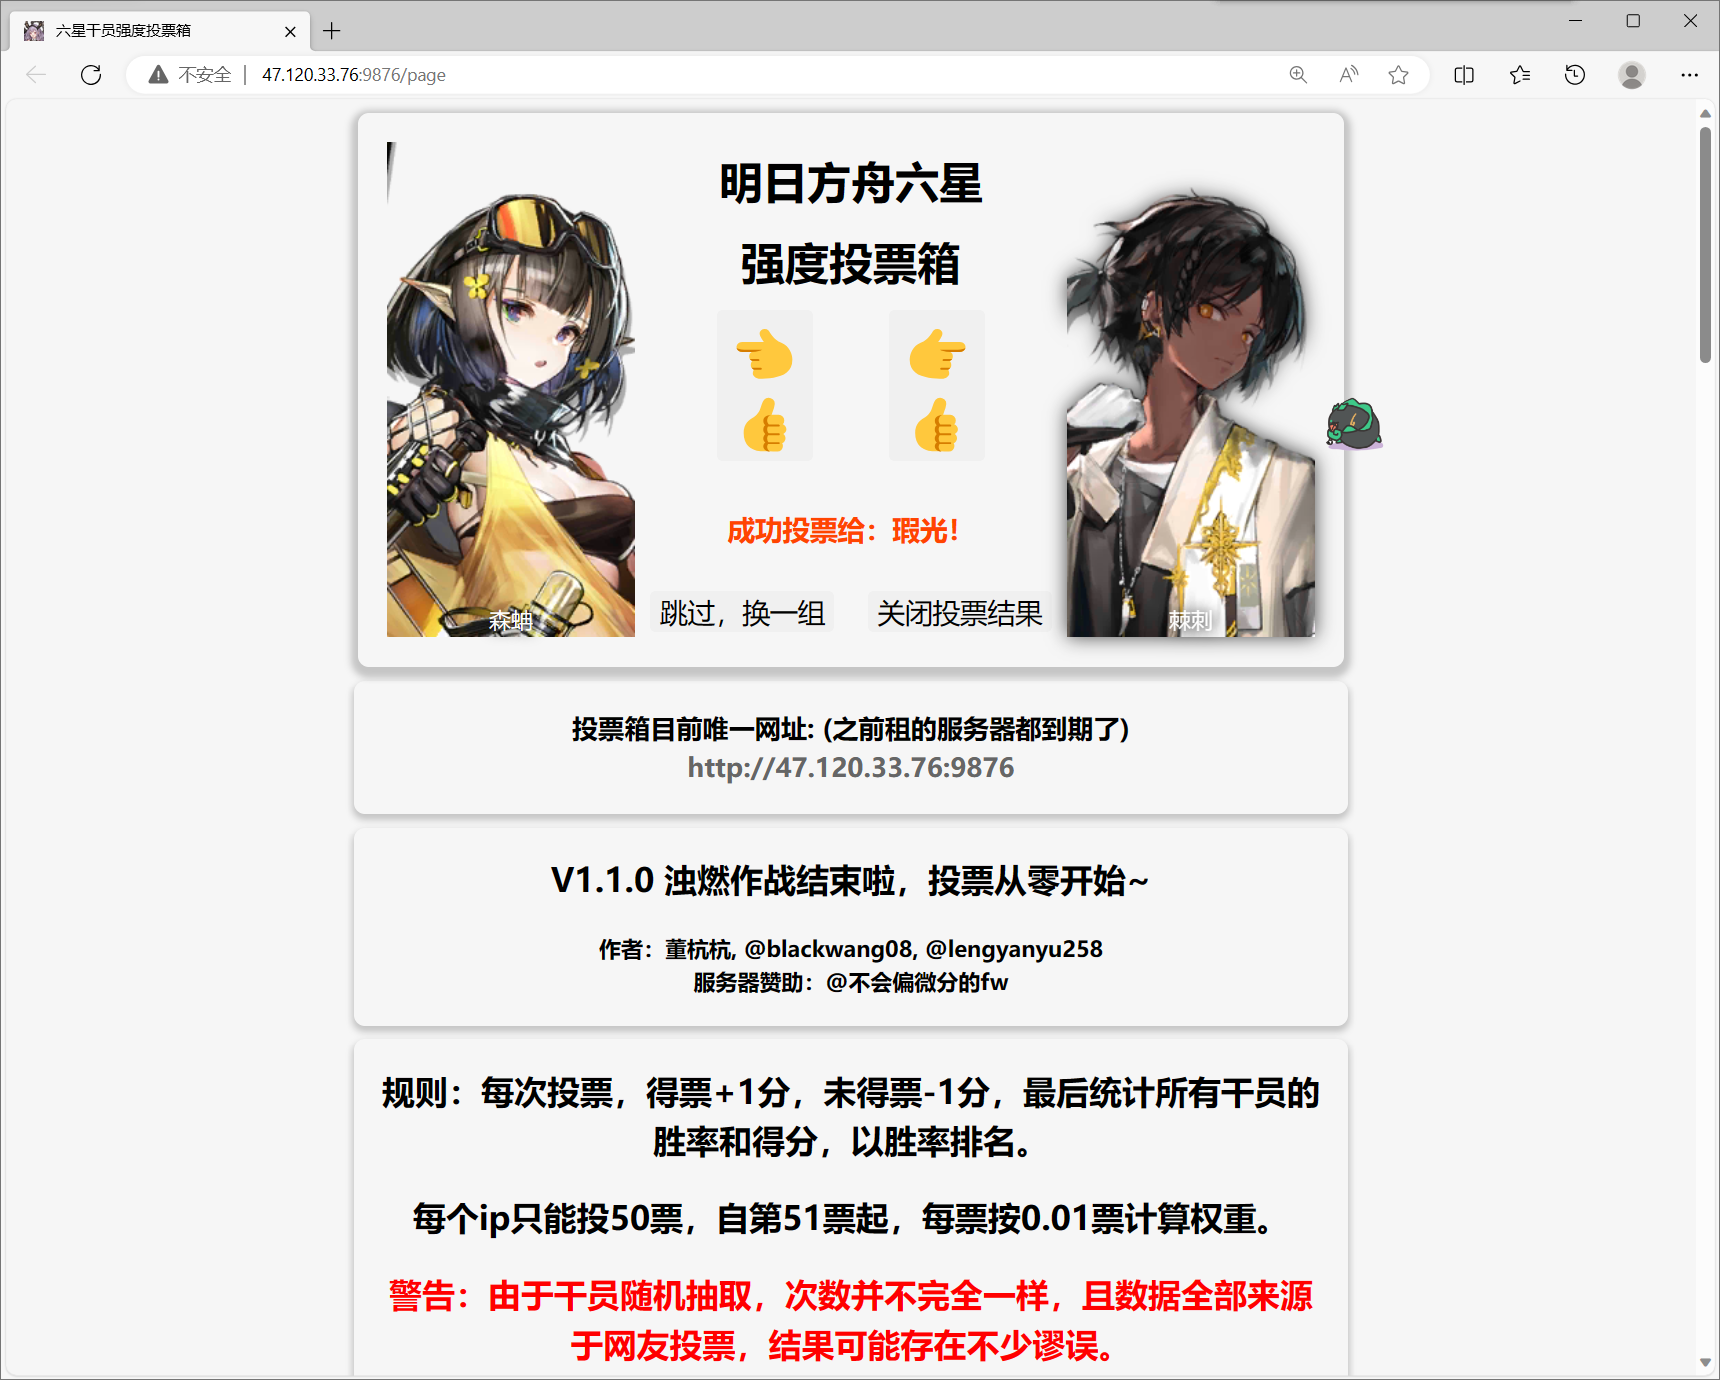
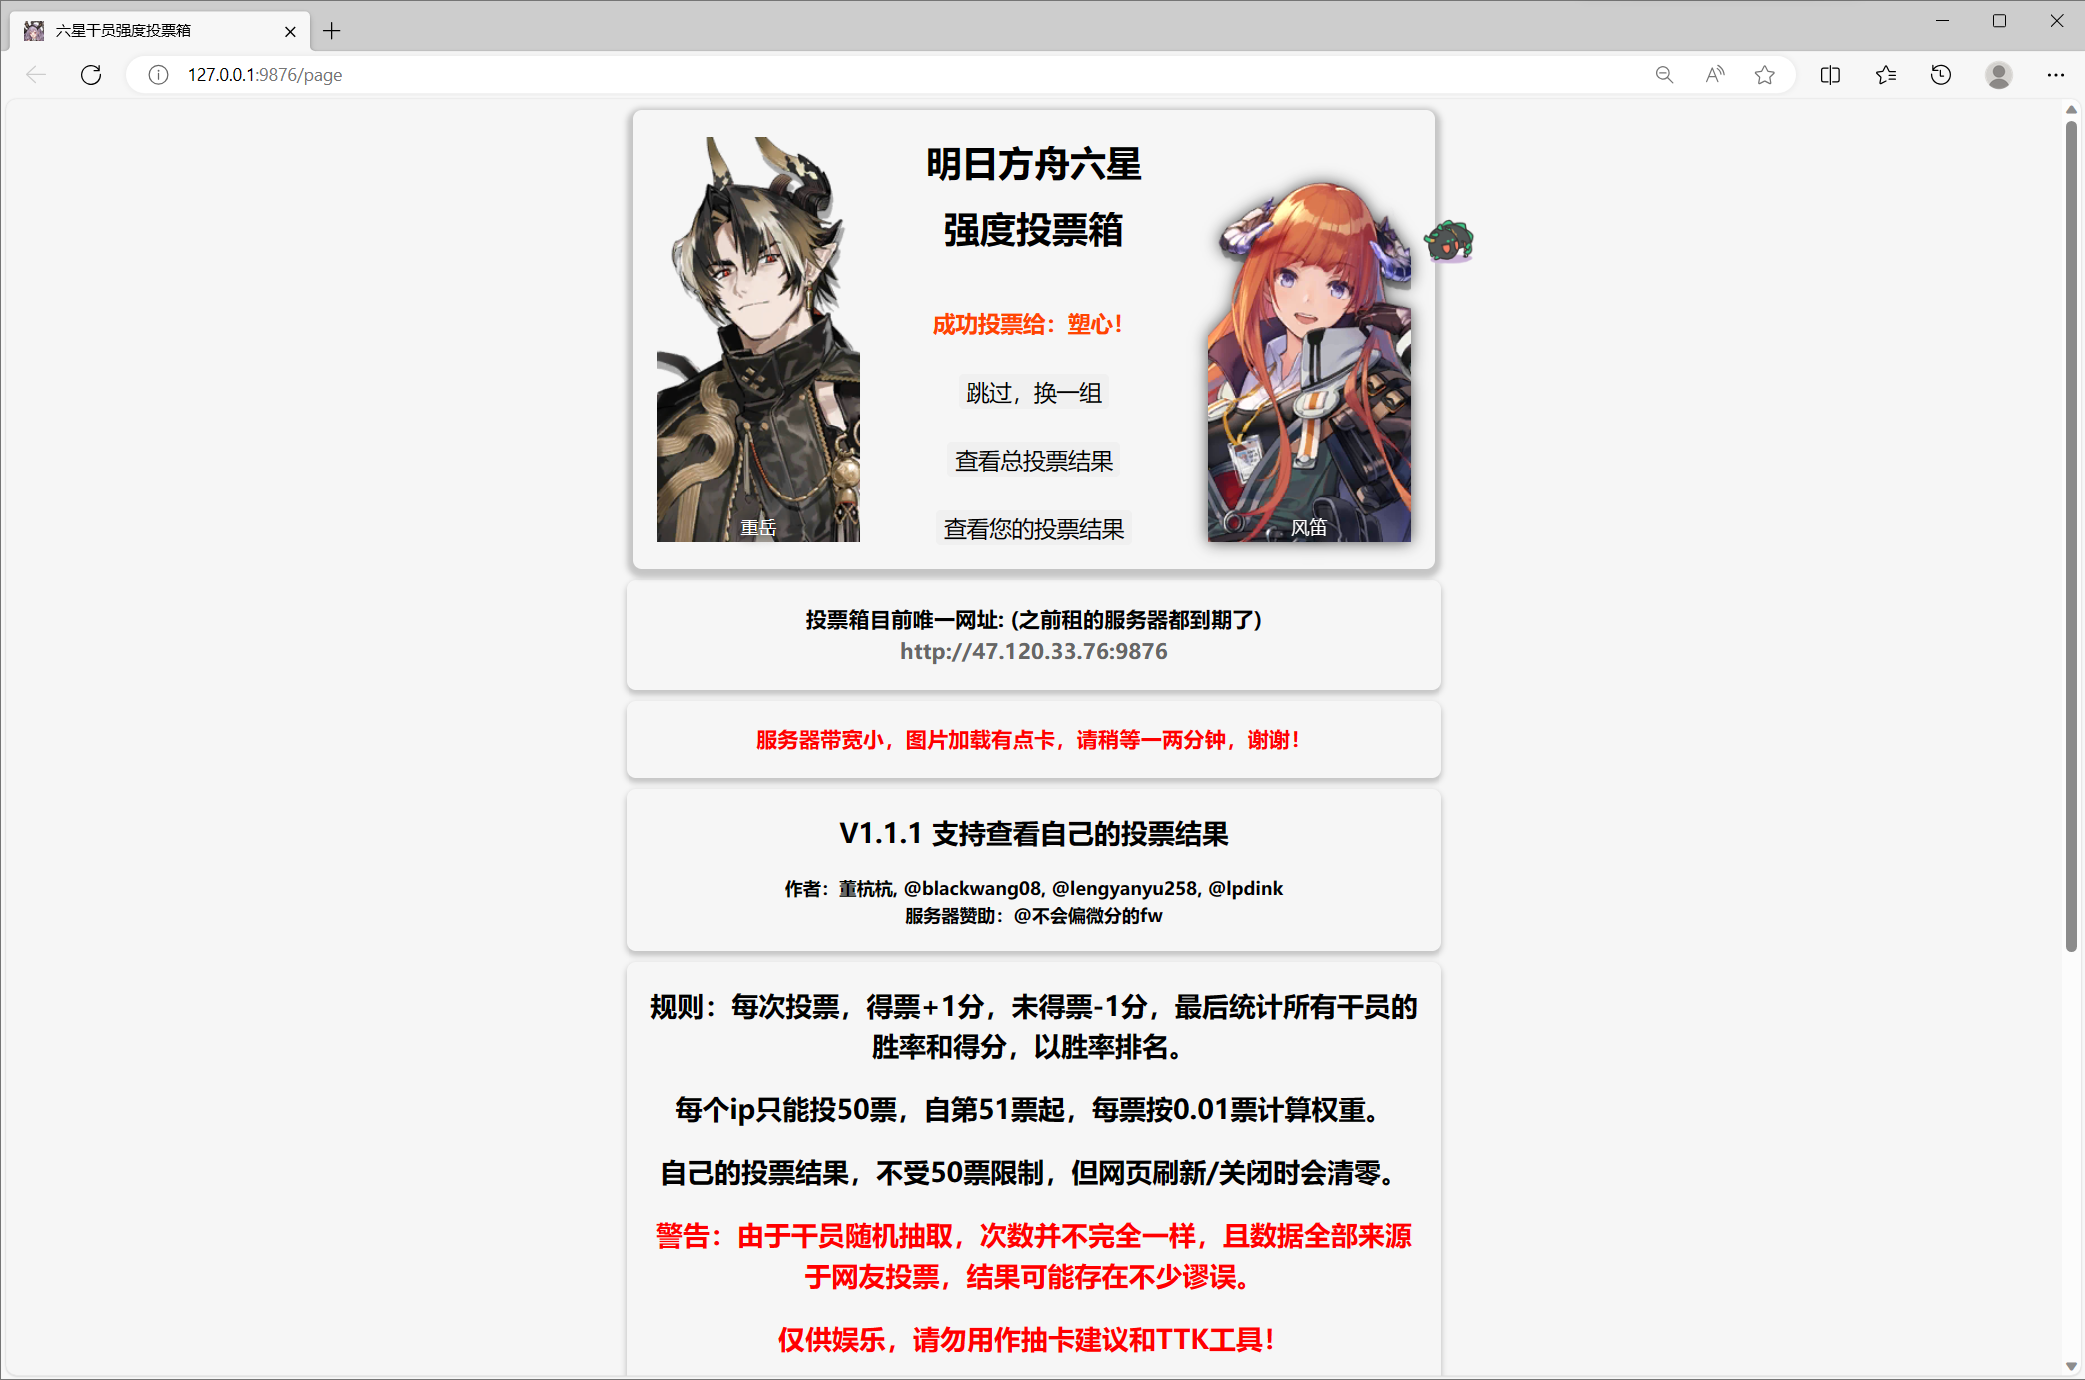
1.1.1 支持查看自己的投票结果

diff --git a/templates/page.html b/templates/page.html
@@ -23,27 +23,26 @@
                     </td>
 
                     <!-- 比较核心区域 -->
+                    <!-- fixme: 用css给这一块设置固定宽度，替代下面的一堆&nbsp; -->
                     <td>
                         <!-- 标题 -->
-                        <h1>明日方舟六星</h1>
+                        <h1>&nbsp;&nbsp;&nbsp;&nbsp;&nbsp;&nbsp;明日方舟六星&nbsp;&nbsp;&nbsp;&nbsp;&nbsp;&nbsp;</h1>
                         <h1>强度投票箱</h1>
+                        <br>
+                        <!-- 按钮和反馈 -->
                         <div class="compare_block">
-                            <!-- 为干员投票按钮 -->
-                            <div class="vote">
-                                <input class="vote_button" type="button" value="👈👍" onclick="save_score_left()">
-                                <input class="vote_button" type="button" value="👉👍" onclick="save_score_right()">
-                            </div>
-                            <br>
                             <h4 id="toupiao_success">&nbsp;</h4>
-
-                            <!-- 部分辅助功能 -->
                             <div class="function">
                                 <input class="skip" type="button" value="跳过，换一组" onclick="new_compare()">
+                            </div>
+                            <div class="function">
                                 <input class="result" type="button" value="查看总投票结果" onclick="close_or_view()">
                                 <input class="close" type="button" value="关闭总投票结果" onclick="close_or_view()">
                             </div>
-                            <input class="result" id="self_rst_button" type="button" value="查看您的投票结果"
-                                onclick="view_self()">
+                            <div class="function">
+                                <input class="result" id="self_rst_button" type="button" value="查看您的投票结果" onclick="view_self()">
+                            </div>
+                        </div>
                     </td>
 
                     <!-- 右侧干员图片 -->
@@ -68,13 +67,14 @@
             <h3 class="red_text">服务器带宽小，图片加载有点卡，请稍等一两分钟，谢谢！</h3>
         </div>
         <div class="footer">
-            <h2>V1.1.0 浊燃作战结束啦，投票从零开始~</h2>
-            <h4>作者：董杭杭, @blackwang08, @lengyanyu258</h4>
+            <h2>V1.1.1 支持查看自己的投票结果</h2>
+            <h4>作者：董杭杭, @blackwang08, @lengyanyu258, @lpdink</h4>
             <h4>服务器赞助：@不会偏微分的fw</h4>
         </div>
         <div class="footer">
             <h2>规则：每次投票，得票+1分，未得票-1分，最后统计所有干员的胜率和得分，以胜率排名。</h2>
             <h2>每个ip只能投50票，自第51票起，每票按0.01票计算权重。</h2>
+            <h2>自己的投票结果，不受50票限制，但网页刷新/关闭时会清零。</h2>
             <h2 class="red_text">警告：由于干员随机抽取，次数并不完全一样，且数据全部来源于网友投票，结果可能存在不少谬误。</h2>
             <h2 class="red_text">仅供娱乐，请勿用作抽卡建议和TTK工具！</h2>
             <h2>鸣谢：本投票两两比较的灵感来源于NGA，制作过程中得到了PRTS.wiki，血狼破军和各位群友、网友的支持和建议，在此向各位表示感谢！</h2>

diff --git a/static/js/page.js b/static/js/page.js
@@ -122,7 +122,7 @@ function view_self() {
     if (self_close) {
         self_close = false;
         self_table.style.display = "inline-block";
-        document.getElementById("您已投票").innerText = '您已投票:' + vote_times + '次';
+        document.getElementById("您已投票").innerText = '您已投票 ' + vote_times + ' 次';
         self_button.value = "关闭您的投票结果";
         flush_self();
     }

diff --git a/backend.py b/backend.py
@@ -1,7 +1,7 @@
 # -*- coding: utf-8 -*-
 
-import random, os, pickle
-from flask import Flask, redirect, url_for, render_template, request, jsonify, send_from_directory
+import random, pickle
+from flask import Flask, redirect, url_for, render_template, request, jsonify
 from flask_cors import CORS, cross_origin
 app = Flask(__name__, static_folder='static', template_folder='templates')
 CORS(app)

diff --git a/README.md b/README.md
@@ -2,7 +2,7 @@
 
 明日方舟 六星干员强度投票箱
 
-**更新1.1.0版** 浊燃作战结束啦，**投票从零开始**~
+**更新1.1.1版** 支持查看自己的投票结果
 
 前端JS，后端Python Flask，数据全部来自网友投票，仅供娱乐，准确度可能很低，求轻喷。有好点子欢迎直接提issue或者Pull requests！
 
@@ -44,19 +44,21 @@
 
 ## 计分规则
 
-如图所示，从所有6星干员中，随机抽取两位，供用户投票强弱。你可以点击你认为较强的干员，旁边的按钮，为其投票。
+如图所示，从所有6星干员中，随机抽取两位，供用户投票强弱。你可以点击你认为较强的干员，为其投票。
 
 每次投票，得票的干员+1分，未得票的干员-1分。当投票次数足够多时，可以认为所有干员之间都得到了较充分的比较。
 
 如果你认为两位干员实力不相上下，可以点击 **跳过，换一组** 按钮，感谢你认真、负责地进行干员评价！
 
-最后，程序将统计所有干员的胜率和得分，以胜率排名。
+最后，程序将统计所有干员的胜率和得分，以胜率排名。(为避免恶意刷票，每个ip只能投50票，自第51票起，每票按0.01票计算权重。)
 
 ## 结果展示
 
 每次的投票结果数据，投票后将立刻写入服务端电脑，存储为pickle文件。
 
-点击 **查看投票结果** 按钮，将根据现有全部数据和上述规则，实时生成排行榜。
+点击 **查看总投票结果** 按钮，将根据现有全部数据和上述规则，实时生成排行榜。
+
+点击 **查看您的投票结果** 按钮，将根据用户单人的投票数据，实时生成排行榜。其不受50票限制，但数据将在网页刷新/关闭时**清零**。
 
 特别要注意的是，当数据量很少时，由于随机抽取轮到每位干员的次数不等，且较小群体的主观认知偏见较大，此时生成的排名结果质量很差，谬误甚多，完全不能反映干员的真实水平。
 
@@ -69,6 +71,8 @@
 [@blackwang08](https://github.com/blackwang08)：前端网页美化
 
 [@lengyanyu258](https://github.com/lengyanyu258)：前端网页美化，排行聚类分块算法
+
+[@lpdink](https://github.com/lpdink)：前端 展示自己的投票结果
 
 ## 版权及鸣谢
 
